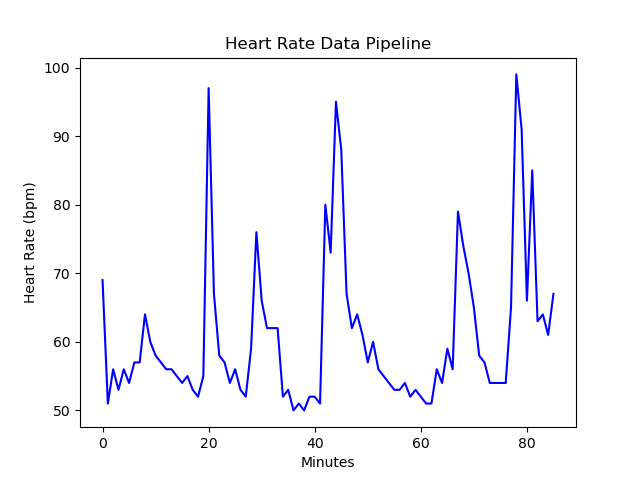
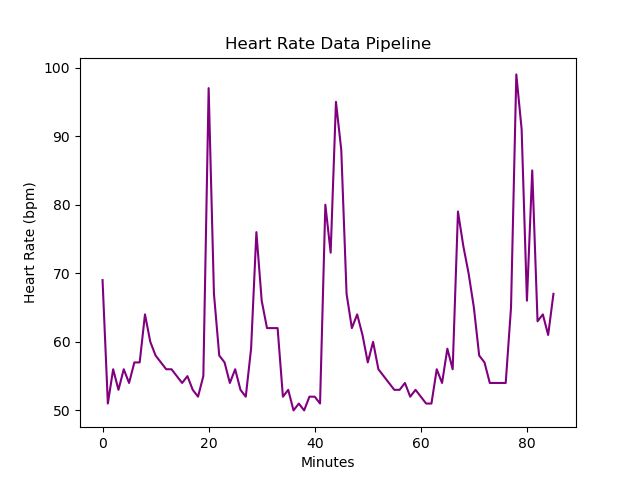
Line color changed

diff --git a/visuals.py b/visuals.py
@@ -4,7 +4,7 @@ import matplotlib.pyplot as plt
 def lineplot_image(data: list):
     fig, ax = plt.subplots()
 
-    ax.plot(data, color = "blue")
+    ax.plot(data, color = "purple")
     ax.set_title("Heart Rate Data Pipeline")
     ax.set_xlabel("Minutes")
     ax.set_ylabel("Heart Rate (bpm)")
